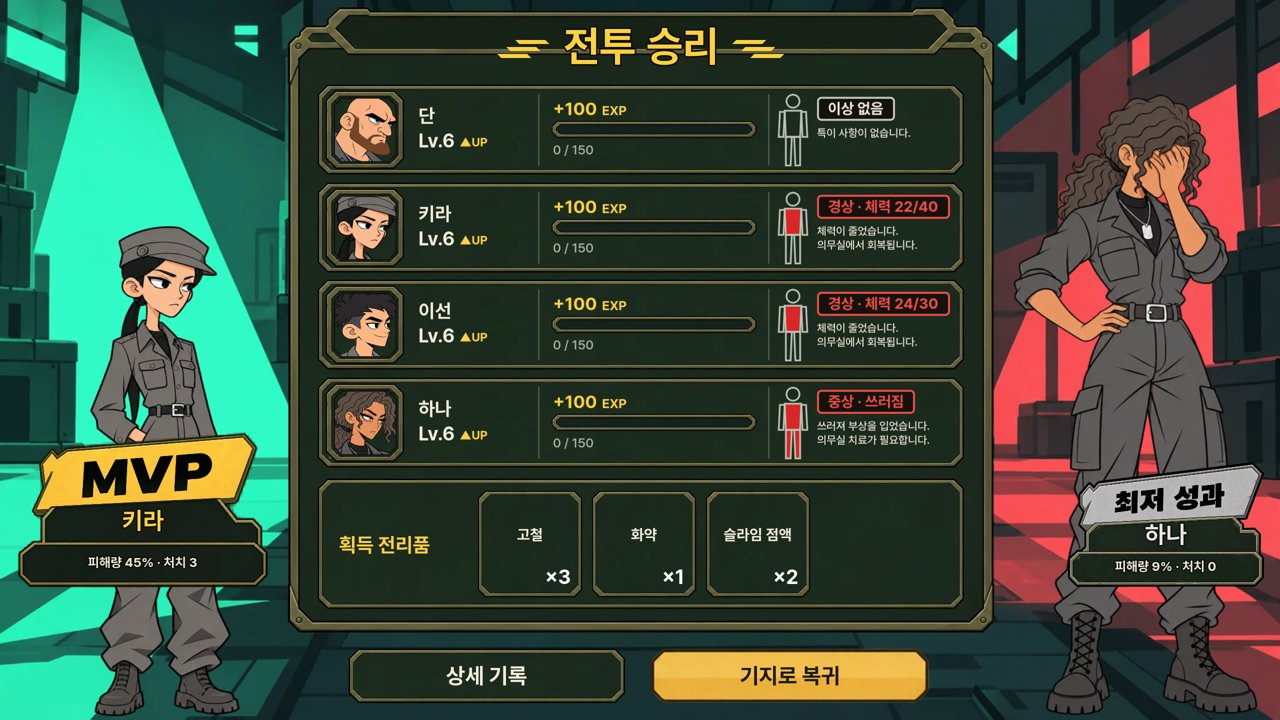
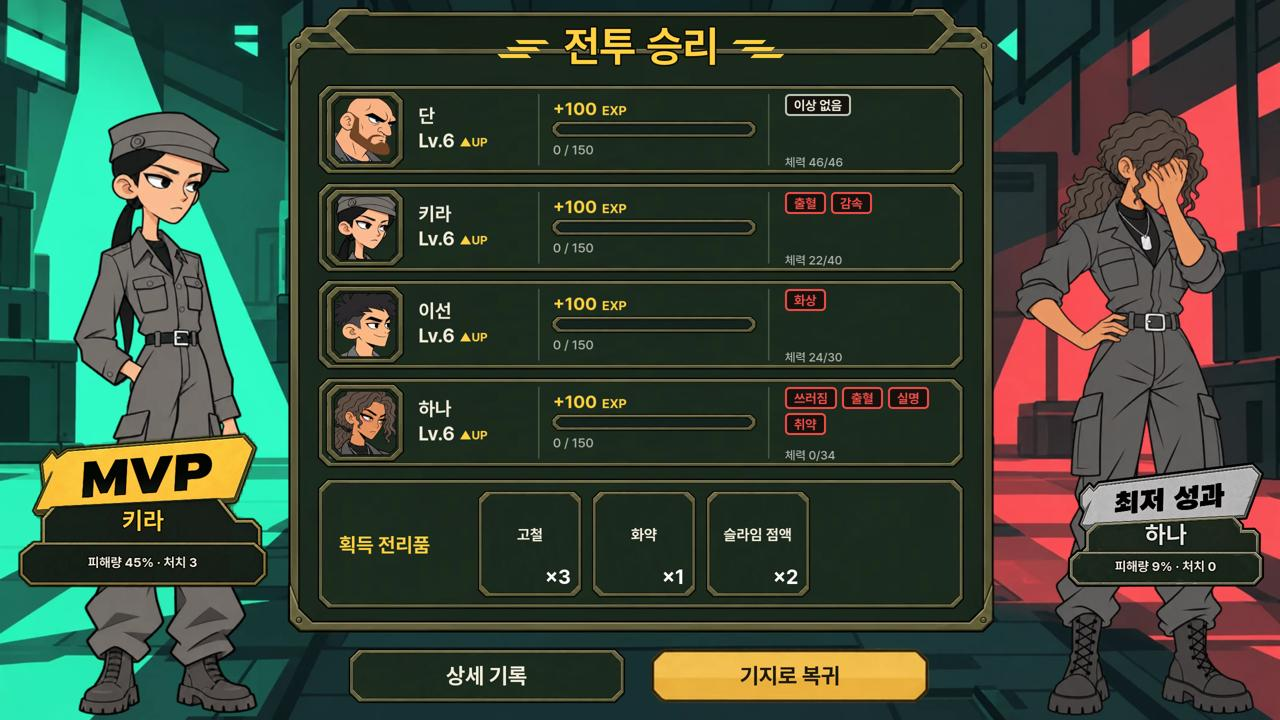
Result screen: list end-of-battle negative statuses instead of the body figure; size side art by height
Claude-Session: https://claude.ai/code/session_014aytw3hj7boqn3SZ5GP5ti

diff --git a/docs/design/PROTOTYPE_GDD_v1_0.md b/docs/design/PROTOTYPE_GDD_v1_0.md
@@ -4,9 +4,9 @@
 
 ## 0. 현재 구현 반영 (변경될 때마다 갱신)
 > 아래는 원 기획 이후 사용자 결정으로 바뀐 내용. 상세 결정 이력은 `00_decision_log_v1_0.md`, 아트 규격은 `../ui_art_spec.md`.
-> 마지막 갱신: 2026-10-31 (전투 결과 화면 v2 — 레퍼런스 조립 · MVP · 최저 성과)
+> 마지막 갱신: 2026-10-31 (결과 화면: 몸 그림 → 전투 끝 부정적 상태 이상 꼬리표, 옆 그림 = 키 비례)
 
-- **전투 결과 화면 v2** (사용자 레퍼런스 art_src/ui/result/ref_victory.webp, 조각 assets/ui/result/): 배경 + 가운데 큰 판(머리 탭 "전투 승리" · 패배면 "전투 패배") — 대원 줄마다 초상화 · 이름 · Lv(레벨 업 ▲UP) · +EXP 막대(지금 경험치 / 필요) · 몸 그림(다침 = 몸통 붉게, 쓰러짐 = 몸통 · 다리) · 상태 꼬리표(이상 없음 / 경상 · 중상 + 상태 이상 또는 체력) · 설명, 아래 획득 전리품 칸(이름 · ×개수, 아이템 그림은 아직 없음). 왼쪽 MVP = 적에게 준 피해가 가장 큰 대원(전신 그림 + 배지 · 피해량 % · 처치), 오른쪽 최저 성과 = 가장 적은 대원(언짢음 포즈, 아군 둘 이상일 때). [상세 기록] = 전투 로그 + 다시 전투 · 전투 배치, [기지로 복귀 / 계속].
+- **전투 결과 화면 v2** (사용자 레퍼런스 art_src/ui/result/ref_victory.webp, 조각 assets/ui/result/): 배경 + 가운데 큰 판(머리 탭 "전투 승리" · 패배면 "전투 패배") — 대원 줄마다 초상화 · 이름 · Lv(레벨 업 ▲UP) · +EXP 막대(지금 경험치 / 필요) · 전투가 끝났을 때 남은 부정적 상태 이상 전부(쓰러짐 포함, 붉은 꼬리표 — 없으면 "이상 없음") + 체력, 아래 획득 전리품 칸(이름 · ×개수, 아이템 그림은 아직 없음). 왼쪽 MVP = 적에게 준 피해가 가장 큰 대원(전신 그림 — 키에 비례한 크기, 175cm = 610px — + 배지 · 피해량 % · 처치), 오른쪽 최저 성과 = 가장 적은 대원(언짢음 포즈, 아군 둘 이상일 때). [상세 기록] = 전투 로그 + 다시 전투 · 전투 배치, [기지로 복귀 / 계속].
 - **기지 '타이틀' 버튼** = "타이틀 화면으로 돌아가시겠습니까?" 확인 창 (예 = 지금 칸에 저장하고 타이틀로, 아니요 · Esc = 닫기 — 창 위 제목 · 닫기 버튼 없이 질문 문구만).
 - **설정 창** (타이틀 '설정' · 기지 F10): 배경음악 · 효과음 음량(오디오 버스 BGM · SFX), 창 크기(1280×720 · 1600×900 · 1920×1080), 전체 화면 — user://settings.cfg 에 저장. 타이틀에서는 전투 테스트 메뉴(개발용)도.
 - **정지 중 예약**: 방 클릭 이동뿐 아니라 우클릭 메뉴 행동(자기 · 쉬기 · 식사 · 훈련 · 치료 · 지시 그만두기)도 '다음 행동 1개'로 맡아 둠 — 그 대원 머리 위 "다음: ○○ · 재생하면 시작".

diff --git a/docs/design/00_decision_log_v1_0.md b/docs/design/00_decision_log_v1_0.md
@@ -747,6 +747,10 @@
 - --scene=result 미리보기: 새 기지에 예시 결과를 반영해 경험치 · 전리품까지 보임 (--winner=enemy = 패배, --result_ui=detail = 상세 기록).
 - 전체 테스트 720 통과.
 
+### 2026-10-31 — 결과 화면 상태 이상 · 옆 그림 크기
+- 몸 그림 · 경상/중상 꼬리표를 빼고, 전투가 끝났을 때 남아 있던 부정적 상태 이상을 전부 꼬리표로(쓰러짐 포함, 같은 것은 한 번, 줄이 넘치면 다음 줄) + 아래 "체력 N/M".
+- MVP · 최저 성과 전신 그림 = 칸에 맞춰 줄이던 것을 키(height_cm) 비례로 (175cm = 610px) — 키라가 작게 보이던 문제.
+
 ## 검증 중 (확정 아님)
 - **배경 3D + 캐릭터 2D 하이브리드** (2026-10-25 적용): 배경은 3D 방을 2D 카메라와 같은 투영으로 렌더, 캐릭터 라이팅은 실제 광원 위치 기준
   (빛 쪽 얼굴·몸을 광원색으로 밝힘 + 빛이 뒤에서 오면 같은 쪽 가장자리 림 + 바닥 그림자). 캐릭터 2D(리그)는 확정 사항 유지. (이전 2D 배경 판은 2026-10-27 제거.)

diff --git a/README.md b/README.md
@@ -180,7 +180,7 @@ git 이 없는 설치(zip)는 같은 설치 명령을 다시 실행하면 최신
    - **저장 칸 3개**: 이어하기 = 최근 칸(여럿이면 칸 고르기), 새 게임 = 시작할 칸 고르기. 기지 저장 때 오른쪽 아래 "저장됨" 표시.
    - **기지 단축키**: Space 정지 ↔ 재생 · 1/2/3 속도 · F10 설정. 정지 중에도 이동 · 행동 지시 1개를 예약해 두면 재생할 때 실행.
 
-   - **전투 결과 화면**: 대원별 경험치 · 몸 상태, 획득 전리품, MVP(준 피해 최대) · 최저 성과, [상세 기록](로그 · 다시 전투 · 전투 배치). 확인용 `--scene=result` (`--winner=enemy`).
+   - **전투 결과 화면**: 대원별 경험치 · 전투 끝에 남은 부정적 상태 이상, 획득 전리품, MVP(준 피해 최대) · 최저 성과, [상세 기록](로그 · 다시 전투 · 전투 배치). 확인용 `--scene=result` (`--winner=enemy`).
 
 ![전투 결과](docs/screenshots/result_victory.jpg)
 
